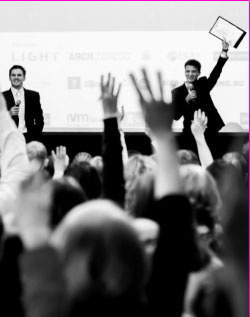
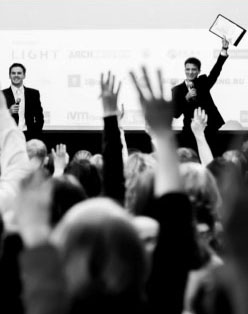
1

diff --git a/css/style.css b/css/style.css
@@ -1695,6 +1695,21 @@ span {
         width: 460px;
         margin: 0 auto;
     }
+    .gt1 {
+        background-image: url(../img/photoGallery/dadafoto/mobail/foto2017-2x.jpg);
+    }
+    .gt2 {
+        background-image: url(../img/photoGallery/dadafoto/mobail/foto2018-2x.jpg);
+    }
+    .gt3 {
+        background-image: url(../img/photoGallery/dadafoto/mobail/foto2019-2x.jpg);
+    }
+    .gt4 {
+        background-image: url(../img/photoGallery/dadafoto/mobail/foto2020-2x.jpg);
+    }
+    .gt5 {
+        background-image: url(../img/photoGallery/dadafoto/mobail/foto2021-2x.jpg);
+    }
 }
 @media screen and (min-width: 768px) {
     .photo-galery__wrapper {
@@ -1735,16 +1750,19 @@ span {
         margin-right: 3%;
     }
     .gt1 {
-        background-image: url(../img/photoGallery/foto2017.jpg);
+        background-image: url(../img/photoGallery/dadafoto/mobail/foto2017-3x.jpg);
     }
     .gt2 {
-        background-image: url(../img/photoGallery/foto2018.jpg);
+        background-image: url(../img/photoGallery/dadafoto/mobail/foto2018-3x.jpg);
     }
     .gt3 {
-        background-image: url(../img/photoGallery/foto2019.jpg);
+        background-image: url(../img/photoGallery/dadafoto/mobail/foto2019-3x.jpg);
     }
     .gt4 {
-        background-image: url(../img/photoGallery/foto2020.jpg);
+        background-image: url(../img/photoGallery/dadafoto/mobail/foto2020-3x.jpg);
+    }
+    .gt5 {
+        background-image: url(../img/photoGallery/dadafoto/mobail/foto2021-3x.jpg);
     }
     .swiper2 {
         height: 818px;
